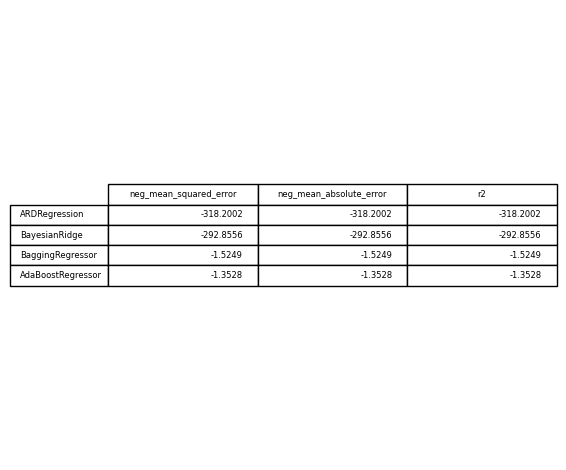
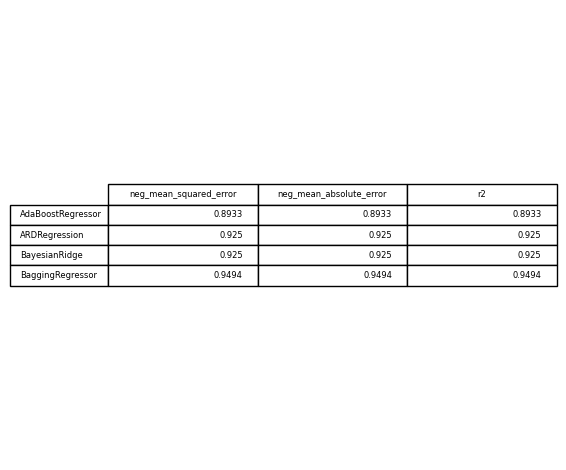
Progress 11:21a 11/6

diff --git a/AutoML/ScikitLearn/Sim_v5/SimultRegRun_v5.py b/AutoML/ScikitLearn/Sim_v5/SimultRegRun_v5.py
@@ -14,35 +14,35 @@ from sklearn.pipeline import Pipeline
 import warnings
 warnings.filterwarnings('ignore')
 
-estimators = all_estimators(type_filter='regressor')
-forbidden_estimators = (
-    "DummyRegressor", "GaussianProcessRegressor", 
-    "QuantileRegressor", "SGDRegressor", 
-    "MultiOutputRegressor", "RegressorChain",
-    "StackingRegressor", "VotingRegressor"
-    )
+def get_all_regs():
+    estimators = all_estimators(type_filter='regressor')
+    forbidden_estimators = (
+        "DummyRegressor", "GaussianProcessRegressor", 
+        "QuantileRegressor", "SGDRegressor", 
+        "MultiOutputRegressor", "RegressorChain",
+        "StackingRegressor", "VotingRegressor"
+        )
 
-all_regs = []
-all_reg_names = []
-for name, RegressorClass in estimators:
-    try:
-        if name not in forbidden_estimators:
-            print('Appending', name)
-            reg = RegressorClass()
-            all_regs.append(reg)
-            all_reg_names.append(name)
-    except Exception as e:
-        print(e)
+    all_regs = []
+    all_reg_names = []
+    for name, RegressorClass in estimators:
+        try:
+            if name not in forbidden_estimators:
+                print('Appending', name)
+                reg = RegressorClass()
+                all_regs.append(reg)
+                all_reg_names.append(name)
+        except Exception as e:
+            print(e)
 
-print(all_regs)
-print(all_reg_names)
+    return all_regs, all_reg_names
 
 def load_data(datapath):
     csv_path = os.path.abspath(datapath)
     return pd.read_csv(csv_path)
 
-def find_strat_label(data):
-    datarscore = data.corr()
+def find_strat_label(raw_data):
+    datarscore = raw_data.corr()
     label = datarscore.columns[-1]
     datarscore = datarscore.drop(label)
     max_cor = datarscore[label].idxmax()
@@ -54,55 +54,58 @@ def find_strat_label(data):
     else:
         return max_cor
 
-def create_strat_cat():
-    strat_label = str(find_strat_label(pp))
-    description = pp.describe()
-    print(description)
+def create_strat_cat(raw_data,strat_label):
+    description = raw_data.describe()
     strat_bins = list(description.loc['min':'max',strat_label])
     strat_bins[0], strat_bins[-1] = -np.inf, np.inf
+    raw_data[f"{strat_label}_cat"] = pd.cut(raw_data[strat_label],bins=strat_bins,labels=[1,2,3,4])
+    data_w_strat_cat = raw_data
+    return data_w_strat_cat
 
-    print(strat_bins)
-    pp[f"{strat_label}_cat"] = pd.cut(pp[strat_label],bins=strat_bins,labels=[1,2,3,4])
-    return pp
-
-def data_split():
+def data_split(data, strat_label):
     split = StratifiedShuffleSplit(n_splits=1,test_size=0.2,random_state=42)
-    for train_index, test_index in split.split(pp,pp[f"{strat_label}_cat"]):
-        train_set = pp.loc[train_index]
-        test_set = pp.loc[test_index]
+    for train_index, test_index in split.split(data,data[f"{strat_label}_cat"]):
+        train_set = data.loc[train_index]
+        test_set = data.loc[test_index]
     for set_ in(train_set,test_set):
         set_.drop(f"{strat_label}_cat",axis=1,inplace=True)
-    pptrain = train_set.copy()
-    pptest = test_set.copy()
+    train = train_set.copy()
+    test = test_set.copy()
 
-    pp_class = pptrain.columns[-1]
-    print(pp_class)
-    pptrain_attrib = pptrain.drop(pp_class,axis=1)
-    pptrain_labels = pptrain[pp_class].copy()
-    pptest_attrib = pptest.drop(pp_class,axis=1)
-    pptest_labels = pptest[pp_class].copy()
+    data_label = train.columns[-1]
+    train_attrib = train.drop(data_label,axis=1)
+    train_labels = train[data_label].copy()
+    test_attrib = test.drop(data_label,axis=1)
+    test_labels = test[data_label].copy()
 
-    return pptrain_attrib, pptrain_labels, pptest_attrib, pptest_labels
+    return train_attrib, train_labels, test_attrib, test_labels
 
-def scale():
+def scale(train_attrib, train_labels, test_attrib, test_labels):
     scaler = StandardScaler()
-    pptrain_attrib = scaler.fit_transform(pptrain_attrib)
-    pptest_attrib = scaler.fit_transform(pptest_attrib)
+    scaled_train_attrib = scaler.fit_transform(train_attrib)
+    scaled_test_attrib = scaler.fit_transform(test_attrib)
+    return scaled_train_attrib, train_labels, scaled_test_attrib, test_labels
 
+def data_transform(datapath):
+    raw_data = load_data(datapath)
+    strat_label = find_strat_label(raw_data)
+    data_w_strat_cat = create_strat_cat(raw_data,strat_label)
+    split_data = data_split(data_w_strat_cat, strat_label)
+    train_attrib, train_labels, test_attrib, test_labels = scale(*split_data)
+    return train_attrib, train_labels, test_attrib, test_labels
 
-num_pipeline = Pipeline([()])
 #mother function that runs the models and returns several figures showing comparison of the models
 def comparison(datapath, n_models, metric_list, n_vizualized):
-    models = all_regs[0:n_models]
-    model_names = all_reg_names[0:n_models]
-    data = load_data(datapath)
+    models = get_all_regs()[0][0:n_models]
+    model_names = get_all_regs()[1][0:n_models]
+    train_attrib, train_labels, test_attrib, test_labels = data_transform(datapath)
     cv_data = []
     errors = []
     passed_models = []
     if 'neg_mean_squared_error' not in metric_list:
         metric_list = metric_list+['neg_mean_squared_error']
     for i in range(len(models)):
-        x = run(models[i],metric_list)
+        x = run(models[i], metric_list, train_attrib, train_labels)
         if type(x) == dict:
             cv_data += [x]
         else:
@@ -110,19 +113,19 @@ def comparison(datapath, n_models, metric_list, n_vizualized):
     for j in range(len(models)):
         if models[j] not in errors:
             passed_models += [model_names[j]]
-    figs = [test_best(cv_data, passed_models, metric_list)]
+    figs = [test_best(cv_data, passed_models, metric_list, test_attrib, test_labels)]
     for metric in metric_list:
-        figs += [boxplot(cv_data, passed_models,metric,show)]
+        figs += [boxplot(cv_data, passed_models,metric,n_vizualized)]
     for k in range(len(figs)):
         figs[k].savefig(f'fig_{k}.png',bbox_inches='tight')
-    return test_best(cv_data, passed_models,metric_list)
+    pass
 
 #the function that performs cross-validation
-def run(model,metric_list):
+def run(model, metric_list, train_attrib, train_labels):
     print(f"checking {model}")
     try:
         cv_outer = KFold(n_splits=10, shuffle=True, random_state=2)
-        cv_output_dict = cross_validate(model, pptrain_attrib, pptrain_labels, scoring=metric_list, cv=cv_outer, return_estimator=True)
+        cv_output_dict = cross_validate(model, train_attrib, train_labels, scoring=metric_list, cv=cv_outer, return_estimator=True)
         return cv_output_dict
     except:
         pass
@@ -148,7 +151,7 @@ def boxplot(cv_data, passed_models, metric, show):
 
 
 #takes the model produced by the best cv run and runs it over the test data. returns table comparing model performance on test data
-def test_best(cv_data, passed_models, metric_list):
+def test_best(cv_data, passed_models, metric_list, test_attrib, test_labels):
     metric_columns = []
     for metric in metric_list:
         metric_columns += [[metric,[]]]
@@ -158,10 +161,10 @@ def test_best(cv_data, passed_models, metric_list):
         for j in range(len(x)):
             if x[j] == min(x):
                 best = y[j]
-        predictions = best.predict(pptest_attrib)
+        predictions = best.predict(test_attrib)
         for k in metric_columns:
             #next line won't work. need to figure out how to use statistics module to calculate metrics on test predictions
-            k[1] += [round(r2_score(pptest_labels,predictions),4)]
+            k[1] += [round(r2_score(test_labels,predictions),4)]
     columnnames = metric_list
     final_columns = []
     for m in metric_columns:
@@ -181,16 +184,9 @@ def test_best(cv_data, passed_models, metric_list):
     return fig
 
 
-y = all_regs
-y_names = all_reg_names
-n_models = 5
-x = all_regs[0:n_models]
-x_names = all_reg_names[0:n_models]
-
 paramdict = {'datapath': 'AutoML/PowerPlantData/Folds5x2_pp.csv',
             'n_models': 5,
             'metric_list': ["neg_mean_squared_error","neg_mean_absolute_error","r2"],
             'n_vizualized': 3,
     }
 comparison(**paramdict)
-
